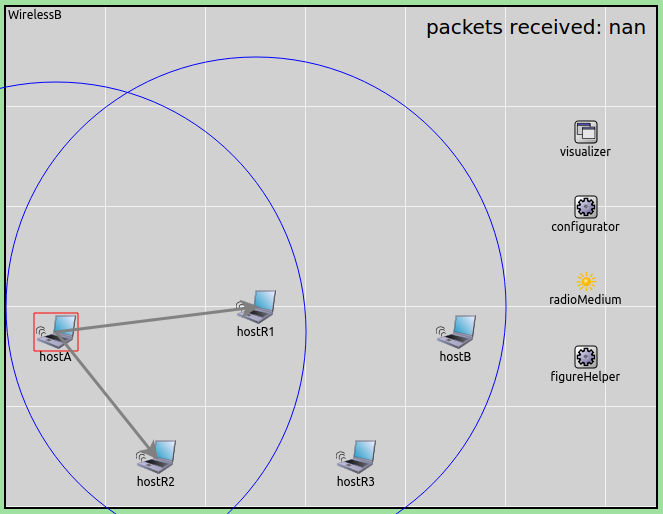
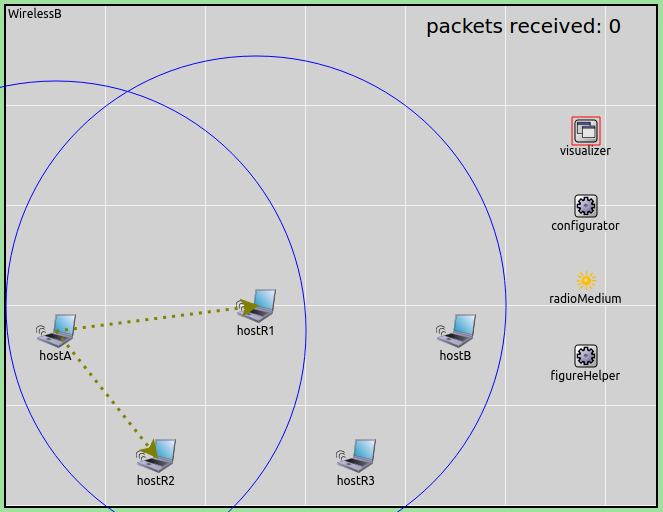
updated step 3 results

diff --git a/tutorials/wireless/doxy/tutorial.h b/tutorials/wireless/doxy/tutorial.h
@@ -190,12 +190,12 @@ the simulation. One can see a UDP packet being sent down from the
 `udpApp` submodule, traversing the intermediate protocol layers, and being
 transmitted by the wlan interface.
 
-<img src="step1_10.gif"> <!-- TODO the animation is completely wrong in Qtenv, must be re-recorded with Tkenv! -->
+<img src="step1_10.gif">í
 
 The next animation shows the communication between the hosts, using
 OMNeT++'s default "message sending" animation.
 
-<img src="step1_11.gif">  <!-- TODO re-record so that it has no NAN in it! -->
+<img src="step1_11.gif">
 
 When the simulation concludes at t=25s, the packet count meter indicates that
 around 2000 packets were sent. A packet with overhead is 1028 bytes, which means
